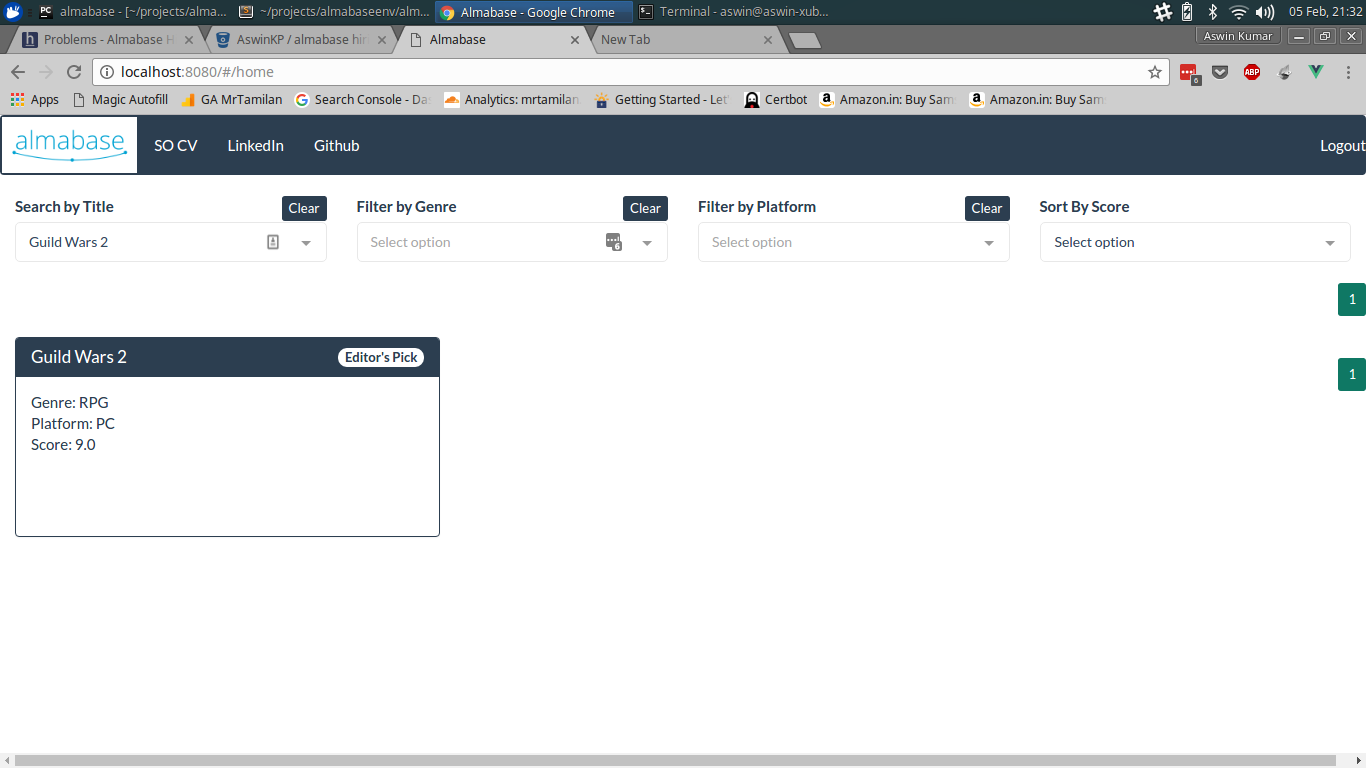
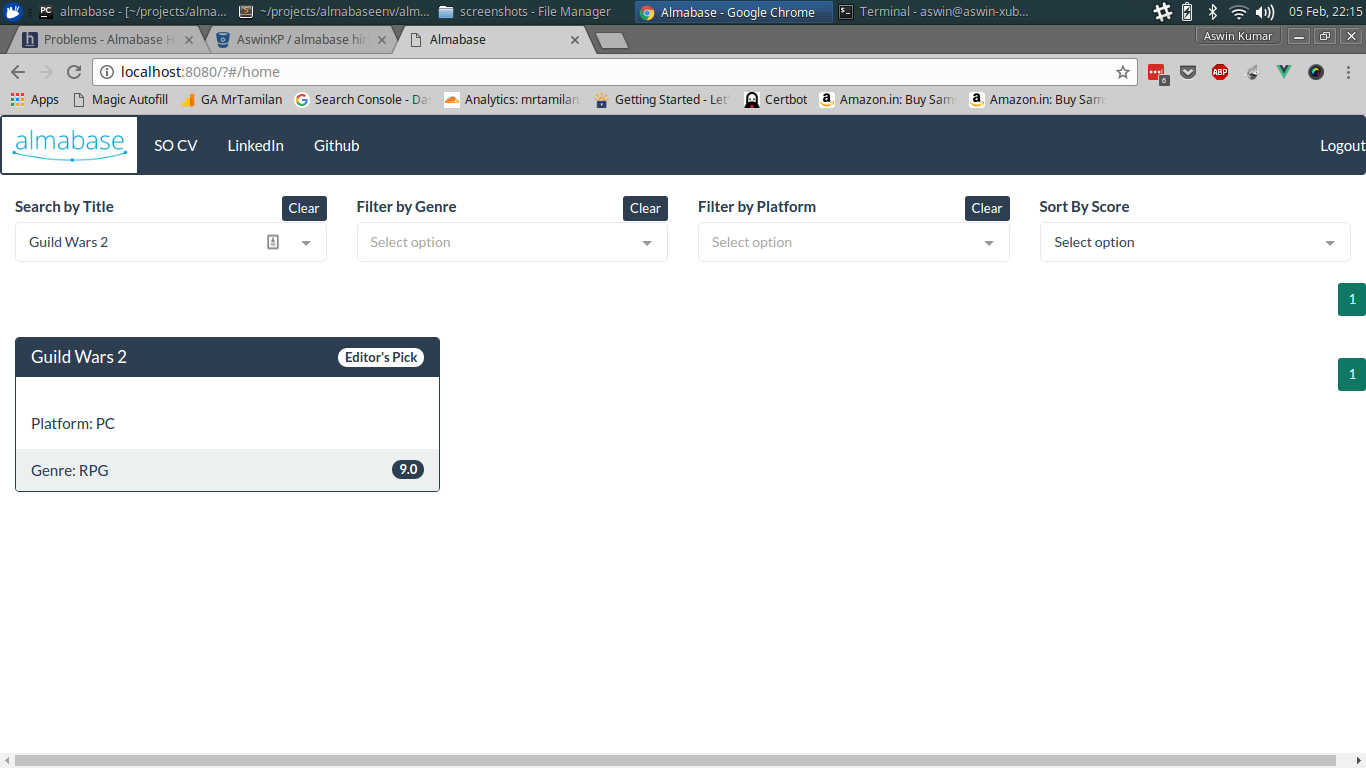
ui tweaks

diff --git a/almabasefrontend/src/components/Home.vue b/almabasefrontend/src/components/Home.vue
@@ -28,20 +28,21 @@
         </div>
         <div class="row">
             <paginate name="gamelist" :list="gamelist" :per="12" tag="div">
-                <div  class="col-md-4 col-sm-2 col-xs-12" v-for="game in paginated('gamelist')">
+                <div  class="col-md-4 col-sm-6 col-xs-12" v-for="game in paginated('gamelist')">
                 <div  class="panel panel-primary">
                     <div class="panel-heading">
                         <h3 class="panel-title">{{game.title}}<span v-if="game.editors_choice=='Y'" class="badge pull-right">Editor's Pick</span></h3>
                     </div>
                     <div class="panel-body">
-                        Genre: {{game.genre}}
                         <br> Platform: {{game.platform}}
-                        <br> Score: {{game.score}}
                     </div>
+                    <div class="panel-footer">
+                        Genre: {{game.genre}}<span class="badge pull-right">{{game.score}}</span>
                     </div>
                 </div>
+                </div>
             </paginate>
-            <paginate-links for="gamelist" class="pagination pagination-sm pull-right" :limit="10"></paginate-links>
+            <paginate-links for="gamelist" class="pagination pagination-sm pull-right text-center" :limit="10"></paginate-links>
         </div>
     </div>
 </template>
@@ -148,7 +149,5 @@ export default {
 }
 </script>
 <style scoped>
-.panel-primary {
-    height: 200px;
-}
+
 </style>
